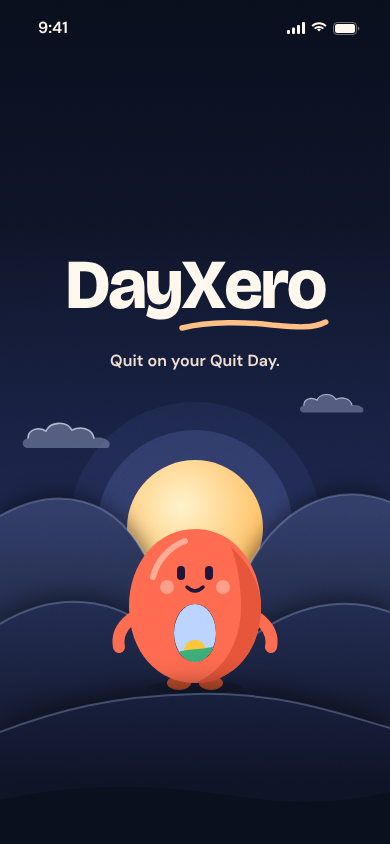
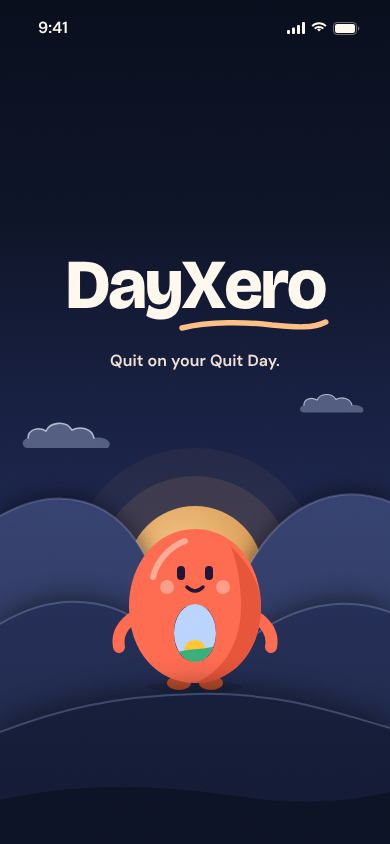
Cook: round 5 complete (app median 8.55); round 6 running
Claude-Session: https://claude.ai/code/session_01DZ7ApmrncqosUtJWfkxY6v

Changed region(s): [[0.2462, 0.4929, 0.7385, 0.6777]]

diff --git a/cook/site/screens/025-session-played.html b/cook/site/screens/025-session-played.html
@@ -1,59 +1,98 @@
 <!doctype html><html lang="en"><head><meta charset="utf-8"><meta name="viewport" content="width=390">
 <title>025 Session card played</title>
-<meta name="motion" content="The Listen card lifts from below and flips over (rotateY, 1100ms settle) to its sun back, landing with a slight tilt; the ink check pops and draws on it at 1.1s (success haptic). Pip 1 fills and pip 2 takes the half fill at 1.5s while the label turns from 1 of 5 to 2 of 5. Title, line, rating chips and the button arrive after (600ms, 90ms stagger). Tapping a rating chip fills it (selection haptic).">
+<meta name="motion" content="The apricot Listen card lifts from below and flips over (rotateY, 1100ms settle) to its back: a sun with soft rays, a small Xero spark and a cream band reading Listen · 6 min, landing with a slight tilt; the ink check pops and draws in the sun at 1.1s (success haptic) while the spark twinkles once (scale 0 to 1, spring). The first step segment fills from the playhead to full and the counter turns from 1 of 5 to 1 of 5 done at 1.3s. Title, line and the Up next row arrive (600ms, 90ms stagger); the rating and the button arrive last in the dock. Tapping a rating chip selects it (selection haptic).">
 <link rel="stylesheet" href="../kit/kit.css">
 <script src="../kit/chars.js"></script><script src="../kit/kit.js"></script>
 <style>
-.f-apricot{--face:#FFC38A}.f-sun{--face:#FFD966}
-.nav .side{width:44px;text-align:right;flex:none}
-.stage{position:absolute;top:164px;left:0;right:0;height:250px;perspective:900px}
-.flip{position:absolute;left:50%;top:6px;width:170px;height:236px;margin-left:-85px;transform-style:preserve-3d;transform:rotate(4deg) rotateY(180deg)}
+/* one colour per card type (shared across the session); dark deepens the pastels a step */
+.k-listen{--face:#FFC38A}.k-try{--face:#9FE3BC}
+[data-theme="dark"] .k-listen{--face:#F3B47E}[data-theme="dark"] .k-try{--face:#8FD3AD}
+.nav .side{flex:none;text-align:right}
+.stage{position:absolute;top:122px;left:0;right:0;height:300px;perspective:900px}
+.flip{position:absolute;left:50%;top:10px;width:196px;height:268px;margin-left:-98px;transform-style:preserve-3d;transform:rotate(4deg) rotateY(180deg)}
 .play .flip{animation:fly 1100ms var(--settle) both 150ms}
 @keyframes fly{0%{transform:translateY(320px) scale(1.2) rotate(0deg) rotateY(0deg)}55%{transform:translateY(40px) scale(1.08) rotate(2deg) rotateY(110deg)}100%{transform:rotate(4deg) rotateY(180deg)}}
-.side-f{position:absolute;inset:0;border-radius:24px;backface-visibility:hidden;-webkit-backface-visibility:hidden;background:var(--face);color:#1E1A3A;padding:16px;box-shadow:0 18px 34px rgba(60,40,20,.18)}
+.side-f{position:absolute;inset:0;border-radius:24px;overflow:hidden;backface-visibility:hidden;-webkit-backface-visibility:hidden;background:var(--face);color:#1E1A3A;padding:18px;box-shadow:0 18px 34px rgba(60,40,20,.18)}
 [data-theme="dark"] .side-f{box-shadow:0 20px 38px rgba(0,0,0,.5)}
-.side-f.back{transform:rotateY(180deg);display:grid;justify-items:center;align-content:center;gap:16px;padding:0;
-  background:radial-gradient(circle at 50% 42%,#FFE79A 0,#FFD966 62%)}
-.side-f.back .lb{font:600 13px/1 var(--body);color:#4A3418}
 .side-f .ic{width:36px;height:36px;border-radius:99px;background:rgba(30,26,58,.1);display:grid;place-items:center}
 .side-f .ic svg{width:20px;height:20px}
 .side-f b{display:block;margin-top:10px;font:700 17px/1.1 var(--display)}
-.mid{position:absolute;top:454px;left:0;right:0;text-align:center;display:grid;gap:8px}
-.rate{position:absolute;top:582px;left:0;right:0;display:grid;gap:12px;justify-items:center}
+/* the back: this card's own apricot, a sun with soft rays, a small Xero spark, and a cream band that names the card */
+.side-f.back{transform:rotateY(180deg);padding:0}
+.side-f.back svg.sunart{position:absolute;left:0;top:0}
+.side-f.back .chk{position:absolute;left:50%;top:76px;margin-left:-38px}
+.side-f.back .band{position:absolute;left:0;right:0;bottom:0;height:50px;background:#FFF8EE;display:flex;align-items:center;justify-content:center;gap:8px;font:600 14px/1 var(--body);color:#1E1A3A}
+.side-f.back .band svg{width:17px;height:17px}
+.spark{transform-box:fill-box;transform-origin:50% 50%}
+.play .spark{animation:tw 700ms var(--spring) both 1350ms}
+@keyframes tw{from{transform:scale(0) rotate(-30deg)}to{transform:none}}
+.mid{position:absolute;top:436px;left:0;right:0;text-align:center;display:grid;gap:8px}
+.next{position:absolute;top:530px;left:var(--gutter);right:var(--gutter)}
+.next .row{gap:14px;min-height:72px}
+.next .tile{width:44px;height:44px;border-radius:14px;background:var(--face);color:#1E1A3A;display:grid;place-items:center;flex:none}
+.next .tile svg{width:22px;height:22px}
+.next .t-cap{color:var(--muted);display:block}
+.next .t-head{font-size:17px;margin-top:3px}
+/* the rating sits just above the button, inside the dock */
+.rate{display:grid;gap:10px;justify-items:center;margin-bottom:6px}
 .rate .chips{gap:8px;justify-content:center}
-.rate .chip{min-height:36px;padding:0 14px;border-radius:99px;font:600 14px/1 var(--body);box-shadow:inset 0 0 0 1px var(--line)}
+.rate .chip{min-height:40px;padding:0 15px;border-radius:99px;font:600 14px/1 var(--body);box-shadow:inset 0 0 0 1px var(--line)}
 </style>
 </head><body>
 <div class="screen" data-ground="table">
   <div class="nav">
     <button class="icon-btn" aria-label="Close" id="close"></button>
-    <div class="grow"><div class="steps" aria-label="Card 2 of 5"><i class="on"></i><i class="now" id="p2"></i><i></i><i></i><i></i></div></div>
-    <span class="side t-foot muted" id="lbl">2 of 5</span>
+    <div class="grow"><div class="steps" aria-label="1 of 5 cards done"><i class="on" id="p1"></i><i></i><i></i><i></i><i></i></div></div>
+    <span class="side t-foot muted" id="lbl">1 of 5 done</span>
   </div>
   <div class="stage">
     <div class="flip">
-      <div class="side-f f-apricot"><span class="ic" id="f-ic"></span><b>Listen</b><span class="t-cap" style="opacity:.7">6 min</span></div>
-      <div class="side-f back"><div id="chk"></div><span class="lb">Listen · 6 min</span></div>
+      <div class="side-f k-listen"><span class="ic" id="f-ic"></span><b>Listen</b><span class="t-cap" style="opacity:.7">6 min</span></div>
+      <div class="side-f back k-listen">
+        <svg class="sunart" width="196" height="268" viewBox="0 0 196 268" aria-hidden="true" id="sunart"></svg>
+        <div class="chk" id="chk"></div>
+        <div class="band"><span id="b-ic"></span>Listen · 6 min</div>
+      </div>
     </div>
   </div>
   <div class="mid pad">
     <h1 class="t-large" data-a style="--i:0;--d:900ms">First card, done</h1>
     <p class="t-foot muted" data-a style="--i:1;--d:900ms">Why it feels like it calms you</p>
   </div>
-  <div class="rate pad" data-a style="--i:2;--d:900ms">
-    <p class="t-foot muted">How was it?</p>
-    <div class="chips"><button class="chip">Helpful</button><button class="chip">Just okay</button><button class="chip">Not for me</button></div>
+  <div class="next list" data-a style="--i:2;--d:900ms">
+    <div class="row">
+      <span class="tile k-try" id="n-ic"></span>
+      <span class="grow"><span class="t-cap">Up next · Try · 5 min</span><span class="t-head" style="display:block">A breath that works in the moment</span></span>
+    </div>
   </div>
-  <div class="dock"><button class="btn" data-a style="--i:4;--d:900ms">Next: A breath that works · 5 min</button></div>
+  <div class="dock">
+    <div class="rate" data-a style="--i:3;--d:900ms">
+      <p class="t-foot muted">How was it?</p>
+      <div class="chips"><button class="chip">Helpful</button><button class="chip">Just okay</button><button class="chip">Not for me</button></div>
+    </div>
+    <button class="btn" data-a style="--i:4;--d:900ms">Play card 2</button>
+  </div>
 </div>
 <script>
 document.getElementById('close').innerHTML = DX.icon('close');
 document.getElementById('f-ic').innerHTML = DX.icon('headphones');
-document.getElementById('chk').innerHTML = DX.check({size:84, color:'#1E1A3A', fg:'#FFD966', d:1100});
+document.getElementById('b-ic').innerHTML = DX.icon('headphones', {size:17, w:2.4});
+document.getElementById('n-ic').innerHTML = DX.icon('hand', {size:22});
+document.getElementById('chk').innerHTML = DX.check({size:76, color:'#1E1A3A', fg:'#FFD966', d:1100});
+/* sun with soft, rounded rays (paper, not spikes) and one small Xero spark */
+const cx = 98, cy = 114;
+const rays = Array.from({length:12}, (_, i) => { const a = i * Math.PI / 6 + Math.PI / 12, r1 = 62, r2 = 80;
+  return `<path d="M${(cx + r1 * Math.cos(a)).toFixed(1)} ${(cy + r1 * Math.sin(a)).toFixed(1)} L${(cx + r2 * Math.cos(a)).toFixed(1)} ${(cy + r2 * Math.sin(a)).toFixed(1)}"/>`; }).join('');
+const star = (x, y, r) => `<path class="spark" d="M${x} ${y - r} Q${x} ${y} ${x + r} ${y} Q${x} ${y} ${x} ${y + r} Q${x} ${y} ${x - r} ${y} Q${x} ${y} ${x} ${y - r}Z"/>`;
+document.getElementById('sunart').innerHTML = `
+  <circle cx="${cx}" cy="${cy}" r="96" fill="#FFF8EE" fill-opacity=".16"/>
+  <g stroke="#FFF1D6" stroke-width="9" stroke-linecap="round" fill="none">${rays}</g>
+  <circle cx="${cx}" cy="${cy}" r="52" fill="#FFE6B8"/>
+  <g fill="#FFF8EE">${star(162, 34, 11)}</g><circle cx="146" cy="26" r="2.6" fill="#FFF8EE"/>`;
 if (!DX.still) {
-  const p2 = document.getElementById('p2'), lbl = document.getElementById('lbl');
-  p2.classList.remove('now'); lbl.textContent = '1 of 5';
-  DX.after(1500, () => { p2.classList.add('now'); lbl.textContent = '2 of 5'; });
+  const p1 = document.getElementById('p1'), lbl = document.getElementById('lbl');
+  p1.className = 'now'; p1.parentElement.style.setProperty('--sub', '100%'); lbl.textContent = '1 of 5';
+  DX.after(1300, () => { p1.className = 'on'; lbl.textContent = '1 of 5 done'; });
 }
 </script>
 </body></html>

diff --git a/cook/site/screens/045-slip-what.html b/cook/site/screens/045-slip-what.html
@@ -1,44 +1,62 @@
 <!doctype html><html lang="en"><head><meta charset="utf-8"><meta name="viewport" content="width=390">
 <title>045 Slip: what happened</title>
-<meta name="motion" content="Calm, no springs. Jelli (calm, 84px) settles in from below (900ms) then bobs slowly; the title, helper and the 'Only you see this' line arrive, then each question group arrives in order (600ms, 90ms stagger), then Save. Chips size to their words and share each row evenly. Tapping a chip tints it and draws its 2px outline in 250ms with a light selection haptic.">
+<meta name="motion" content="Optional sheet-like step, opened from 'Add what happened' on the plan-saved screen; calm, no springs. The small sea strip fades in (600ms) with its front swell rocking slowly (7s); Jelli (calm, 80px) settles into the water (900ms) then bobs. The title, helper and 'Only you see this' arrive, then each question row arrives in order (600ms, 90ms stagger) on one shared three-column grid, then Save. Tapping a chip tints it and draws its 2px outline in 250ms with a light selection haptic. Save returns to the plan-saved screen; the X closes without saving.">
 <link rel="stylesheet" href="../kit/kit.css">
 <script src="../kit/chars.js"></script><script src="../kit/kit.js"></script>
 <style>
-  .wrap { padding: 60px var(--gutter) 0; }
-  .jl { width: 84px; height: 84px; margin-left: -8px; }
-  .wrap h1 { margin-top: 10px; }
+  .wrap { padding: 108px var(--gutter) 0; }
+  .strip { position: relative; height: 92px; border-radius: 22px; overflow: hidden; }
+  .strip svg { position: absolute; inset: 0; width: 100%; height: 100%; }
+  .strip .jl { position: absolute; left: 50%; top: 6px; margin-left: -40px; width: 80px; height: 80px; }
+  .sea .sky0 { stop-color: #CBE4F6; } .sea .sky1 { stop-color: #F4EEE4; }
+  .sea .sun { fill: #FFD25E; } .sea .rim { fill: #F5B83D; }
+  .sea .w1 { fill: #9CC8EE; } .sea .w2 { fill: #5E9FE2; } .sea .w3 { fill: #2F6FC4; }
+  [data-theme="dark"] .sea .sky0 { stop-color: #16234A; } [data-theme="dark"] .sea .sky1 { stop-color: #2C3D6A; }
+  [data-theme="dark"] .sea .sun { fill: #F6E7C1; } [data-theme="dark"] .sea .rim { fill: #E9D3A0; }
+  [data-theme="dark"] .sea .w1 { fill: #34548F; } [data-theme="dark"] .sea .w2 { fill: #26437E; } [data-theme="dark"] .sea .w3 { fill: #1B356A; }
+  .play .sea .rock { animation: rock 7s ease-in-out infinite; }
+  @keyframes rock { 50% { transform: translateX(-8px); } }
+  .wrap h1 { margin-top: 22px; }
+  .wrap h1 .opt-l { color: var(--muted); font-weight: 700; }
   .wrap .lead { margin-top: 8px; color: var(--muted); }
-  .priv { margin-top: 8px; display: flex; align-items: center; gap: 6px; color: var(--muted); }
+  .priv { margin-top: 6px; display: flex; align-items: center; gap: 6px; color: var(--muted); }
   .priv svg { width: 16px; height: 16px; }
-  .qs { margin-top: 34px; display: grid; gap: 38px; }
-  .q6 { display: grid; gap: 14px; }
+  .qs { margin-top: 26px; display: grid; gap: 24px; }
+  .q6 { display: grid; gap: 12px; }
   .q6 .t-head { font-size: 17px; }
-  .q6 .chips { display: flex; flex-wrap: nowrap; gap: 8px; }
-  .q6 .chip { flex: 1 1 auto; justify-content: center; min-height: 56px; padding: 0 12px; white-space: nowrap; }
-  /* the kit's selection (tint plus 2px outline); the reading ground's 1px chip line must not win */
-  .screen .chip.on { background: color-mix(in srgb, var(--sel) 8%, var(--card)); box-shadow: inset 0 0 0 2px var(--sel); }
+  .q6 .chips { display: grid; grid-template-columns: repeat(3, minmax(0, 1fr)); gap: 8px; }
+  .q6 .chip { justify-content: center; min-height: 50px; padding: 0 6px; white-space: nowrap; }
 </style>
 </head><body>
 <div class="screen" data-ground="reading">
   <div class="nav">
-    <button class="icon-btn" aria-label="Back" data-ic="back"></button>
-    <div class="grow"><div class="steps" aria-label="Step 3 of 3"><i class="on"></i><i class="on"></i><i class="on"></i></div></div>
-    <span style="width:44px"></span>
+    <button class="icon-btn" aria-label="Close" data-ic="close"></button>
   </div>
   <div class="scroll">
     <div class="wrap">
-      <div class="jl" data-settle style="--i:0"><div class="bob" id="jelli"></div></div>
-      <h1 class="t-title" data-a style="--i:1">What happened?</h1>
+      <div class="strip" data-fade>
+        <svg class="sea" viewBox="0 0 346 92" preserveAspectRatio="xMidYMid slice" aria-hidden="true"><defs><linearGradient id="sk" x1="0" y1="0" x2="0" y2="1"><stop offset="0" class="sky0"/><stop offset="1" class="sky1"/></linearGradient><filter id="pc" x="-5%" y="-40%" width="110%" height="180%"><feDropShadow dx="0" dy="-2" stdDeviation="2.2" flood-color="#10204A" flood-opacity=".22"/></filter></defs>
+          <rect width="346" height="92" fill="url(#sk)"/>
+          <circle class="rim" cx="290" cy="30" r="15"/><circle class="sun" cx="290" cy="30" r="12"/>
+          <path class="w1" filter="url(#pc)" d="M-10 52 C30 44 70 44 110 50 S190 60 230 52 S310 42 356 48 V100 H-10Z"/>
+        </svg>
+        <div class="jl" data-settle style="--d:200ms"><div class="bob" id="jelli"></div></div>
+        <svg class="sea" viewBox="0 0 346 92" preserveAspectRatio="xMidYMid slice" aria-hidden="true"><defs><filter id="pc2" x="-5%" y="-40%" width="110%" height="180%"><feDropShadow dx="0" dy="-2" stdDeviation="2.4" flood-color="#10204A" flood-opacity=".26"/></filter></defs>
+          <g class="rock"><path class="w2" filter="url(#pc2)" d="M-20 72 C20 64 60 64 100 70 S180 80 222 72 S310 62 366 68 V100 H-20Z"/></g>
+          <path class="w3" filter="url(#pc2)" d="M-10 84 C40 78 90 80 140 84 S250 90 356 80 V100 H-10Z"/>
+        </svg>
+      </div>
+      <h1 class="t-title" data-a style="--i:1">Add what happened <span class="opt-l">(optional)</span></h1>
       <p class="t-foot lead" data-a style="--i:2">No judgement. Just the facts, so the plan fits.</p>
       <p class="t-foot priv" data-a style="--i:3"><span data-ic="lock"></span>Only you see this.</p>
       <div class="qs">
         <div class="q6" data-a style="--i:4">
           <p class="t-head">What did you have?</p>
-          <div class="chips"><button class="chip on">Vape</button><button class="chip">Cigarettes</button></div>
+          <div class="chips"><button class="chip on">Vape</button><button class="chip">Cigarettes</button><button class="chip">Both</button></div>
         </div>
         <div class="q6" data-a style="--i:5">
           <p class="t-head">How much?</p>
-          <div class="chips"><button class="chip">A few puffs</button><button class="chip on">One session</button><button class="chip">More</button></div>
+          <div class="chips"><button class="chip">A few puffs</button><button class="chip on">One session</button><button class="chip">Several</button></div>
         </div>
         <div class="q6" data-a style="--i:6">
           <p class="t-head">When?</p>
@@ -53,6 +71,6 @@
 </div>
 <script>
   document.querySelectorAll('[data-ic]').forEach(e => e.innerHTML = DX.icon(e.dataset.ic));
-  document.getElementById('jelli').innerHTML = DX.char('jelli', { mood: 'calm', size: 84 });
+  document.getElementById('jelli').innerHTML = DX.char('jelli', { mood: 'calm', size: 80 });
 </script>
 </body></html>

diff --git a/cook/site/screens/000-launch.html b/cook/site/screens/000-launch.html
@@ -1,18 +1,20 @@
 <!doctype html><html lang="en"><head><meta charset="utf-8"><meta name="viewport" content="width=390">
 <title>000 Launch</title>
-<meta name="motion" content="2.4 s, then hold. 0-1000ms back hill rises 220px (settle); 140-1140ms mid hill rises 260px; 280-1280ms front hill rises 300px (each paper layer casts a soft shadow up onto the one behind). 250-1750ms the sun climbs 240px into the valley (ease-out), its two paper rings open from 0.6 to 1 at 800-1900ms. 700-1720ms the wordmark assembles: 7 letters, 60ms stagger, each rises 40px with a 6deg tilt and blur 6px to sharp on a soft spring (660ms). 1560-2010ms the coral underline draws under Xero. 1500-2340ms Xero (hero size) rises 170px from behind the front hill on a soft overshoot and lands under the sun like a halo; soft impact haptic at 2300ms. 1900-2400ms tagline fades up 10px. 600-2000ms two paper clouds slide in 36px from the sides and fade up. Holds the final frame; Xero blinks.">
+<meta name="motion" content="2.4 s, then hold. Dark mode: the same timeline with a low, dim amber sun that stops 46px lower, half behind the back hill. 0-1000ms back hill rises 220px (settle); 140-1140ms mid hill rises 260px; 280-1280ms front hill rises 300px (each paper layer casts a soft shadow up onto the one behind). 250-1750ms the sun climbs 240px into the valley (ease-out), its two paper rings open from 0.6 to 1 at 800-1900ms. 700-1720ms the wordmark assembles: 7 letters, 60ms stagger, each rises 40px with a 6deg tilt and blur 6px to sharp on a soft spring (660ms). 1560-2010ms the coral underline draws under Xero. 1500-2340ms Xero (hero size) rises 170px from behind the front hill on a soft overshoot and lands under the sun like a halo; soft impact haptic at 2300ms. 1900-2400ms tagline fades up 10px. 600-2000ms two paper clouds slide in 36px from the sides and fade up. Holds the final frame; Xero blinks.">
 <link rel="stylesheet" href="../kit/kit.css">
 <script src="../kit/chars.js"></script><script src="../kit/kit.js"></script>
 <style>
   /* Art palette (paper layers). Light: atmospheric peach to terracotta. Dark: navy night-before-dawn on the one dark neutral, warm rim light and sun. */
-  .screen { --h-back: #FFD9AE; --h-mid: #FFA56C; --h-front: #E9643F; --h-base: #C94B33; --h-edge: rgba(255,255,255,.55);
+  /* Light: the hill directly behind Xero is pale cream-peach so his coral body separates; the front band is a soft terracotta, not brick. */
+  .screen { --h-back: #FFD2A2; --h-mid: #FFE6CA; --h-front: #F7A578; --h-base: #F08F62; --h-edge: rgba(255,255,255,.6);
     --h-back-2: var(--h-back); --h-mid-2: var(--h-mid); --h-front-2: var(--h-front);
     --sun-a: #FFF4C9; --sun-b: #FFC93C; --ring-1: rgba(255,240,205,.55); --ring-2: rgba(255,236,200,.32); --lift: rgba(120,44,20,.22);
     --cloud: rgba(255,247,236,.7); --cloud-lit: rgba(255,247,236,0); --sky: transparent; }
   /* Dark: pre-dawn. Cool indigo air around the sun (no brown halo), moonlit paper clouds, paper hills shaded light at the ridge to dark below. */
-  [data-theme="dark"] .screen { --h-back: #36426E; --h-back-2: #232C4C; --h-mid: #263058; --h-mid-2: #19213C; --h-front: #1A2240; --h-front-2: #10162A; --h-base: #0C1121;
-    --h-edge: rgba(190,205,255,.30);
-    --sun-a: #FFF3CF; --sun-b: #FFBE5C; --ring-1: rgba(150,170,255,.16); --ring-2: rgba(130,150,250,.08); --lift: rgba(0,0,0,.5);
+  /* Dark: each night hill is its own flat shade (far = lightest), and the sun is low and dim amber, half behind the hills. */
+  [data-theme="dark"] .screen { --h-back: #3A4674; --h-back-2: #36416C; --h-mid: #28335C; --h-mid-2: #252F55; --h-front: #19213F; --h-front-2: #171E3A; --h-base: #0F1529;
+    --h-edge: rgba(190,205,255,.26);
+    --sun-a: #F2C98C; --sun-b: #D9964E; --ring-1: rgba(232,170,100,.13); --ring-2: rgba(232,170,100,.06); --lift: rgba(0,0,0,.45);
     --cloud: rgba(200,212,245,.36); --cloud-lit: rgba(232,238,255,.7);
     --sky: linear-gradient(to bottom, #0B1020 0%, #10172C 40%, #1A2346 72%, #222C55 100%); }
   .sky { position: absolute; inset: 0 0 auto 0; height: 560px; background: var(--sky); z-index: 0; }
@@ -28,6 +30,8 @@
   .layer { position: absolute; left: 0; width: 390px; pointer-events: none; }
   .layer svg { display: block; }
   .sunwrap { top: 352px; height: 300px; z-index: 1; }
+  /* Dark: a low sun, sitting 46px lower so the back hill cuts it. */
+  [data-theme="dark"] .sunpos { transform: translateY(46px); }
   .hill.back  { top: 420px; height: 404px; z-index: 2; filter: drop-shadow(0 -4px 10px var(--lift)); }
   .hill.mid   { top: 420px; height: 404px; z-index: 3; filter: drop-shadow(0 -5px 12px var(--lift)); }
   .xwrap { left: 95px; width: 200px; top: 495px; height: 200px; z-index: 4; }
@@ -84,11 +88,11 @@
       <defs>
         <radialGradient id="sunG" cx=".4" cy=".34" r=".72"><stop offset="0" stop-color="var(--sun-a)"/><stop offset="1" stop-color="var(--sun-b)"/></radialGradient>
       </defs>
-      <g class="sun">
+      <g class="sunpos"><g class="sun">
         <circle class="ring" cx="195" cy="176" r="126" fill="var(--ring-2)" style="--d:900ms"/>
         <circle class="ring" cx="195" cy="176" r="98" fill="var(--ring-1)" style="--d:800ms"/>
         <circle cx="195" cy="176" r="68" fill="url(#sunG)"/>
-      </g>
+      </g></g>
     </svg>
   </div>
 

diff --git a/cook/ROUNDS.md b/cook/ROUNDS.md
@@ -103,3 +103,10 @@ Read: plateau around 8.5; each round fixes the named items and the stricter crit
 into the kit as they appear (button lip, "+" sparkles, tab fade, selection style, Day Xero mark, tab bar).
 Kit after round 5: soft button shadow (no grey lip); star sparkles; 170px tab fade; selected chips white + 2px outline; radio
 rings 3:1; waiting Day Xero on a cream coin.
+
+Round 05 complete (all sections, real-size critics, Opus / Sonnet):
+onboarding 8.5 / 8.6; Today-SOS-Program 8.3 / 8.7; session 8.4 / 8.7; lesson-log 8.4 / 8.5; slips-checkin 8.5 / 8.7;
+calm-settings 8.7 / 8.8. Section medians 8.55, 8.5, 8.55, 8.45, 8.6, 8.75 -> app median 8.55 (round 4: 8.5).
+Screens at >= 9.0 by a critic: 018, 019, 024, 029, 032, 035, 039, 046, 053, 054, 055, 059, 060, 064, 066 (9.0-9.1).
+Kit after round 5: warm selection tint, `.opt.multi` checkboxes, coral toggles, brighter pre-dawn sun.
+Round 06: all six sections are in fixers.
